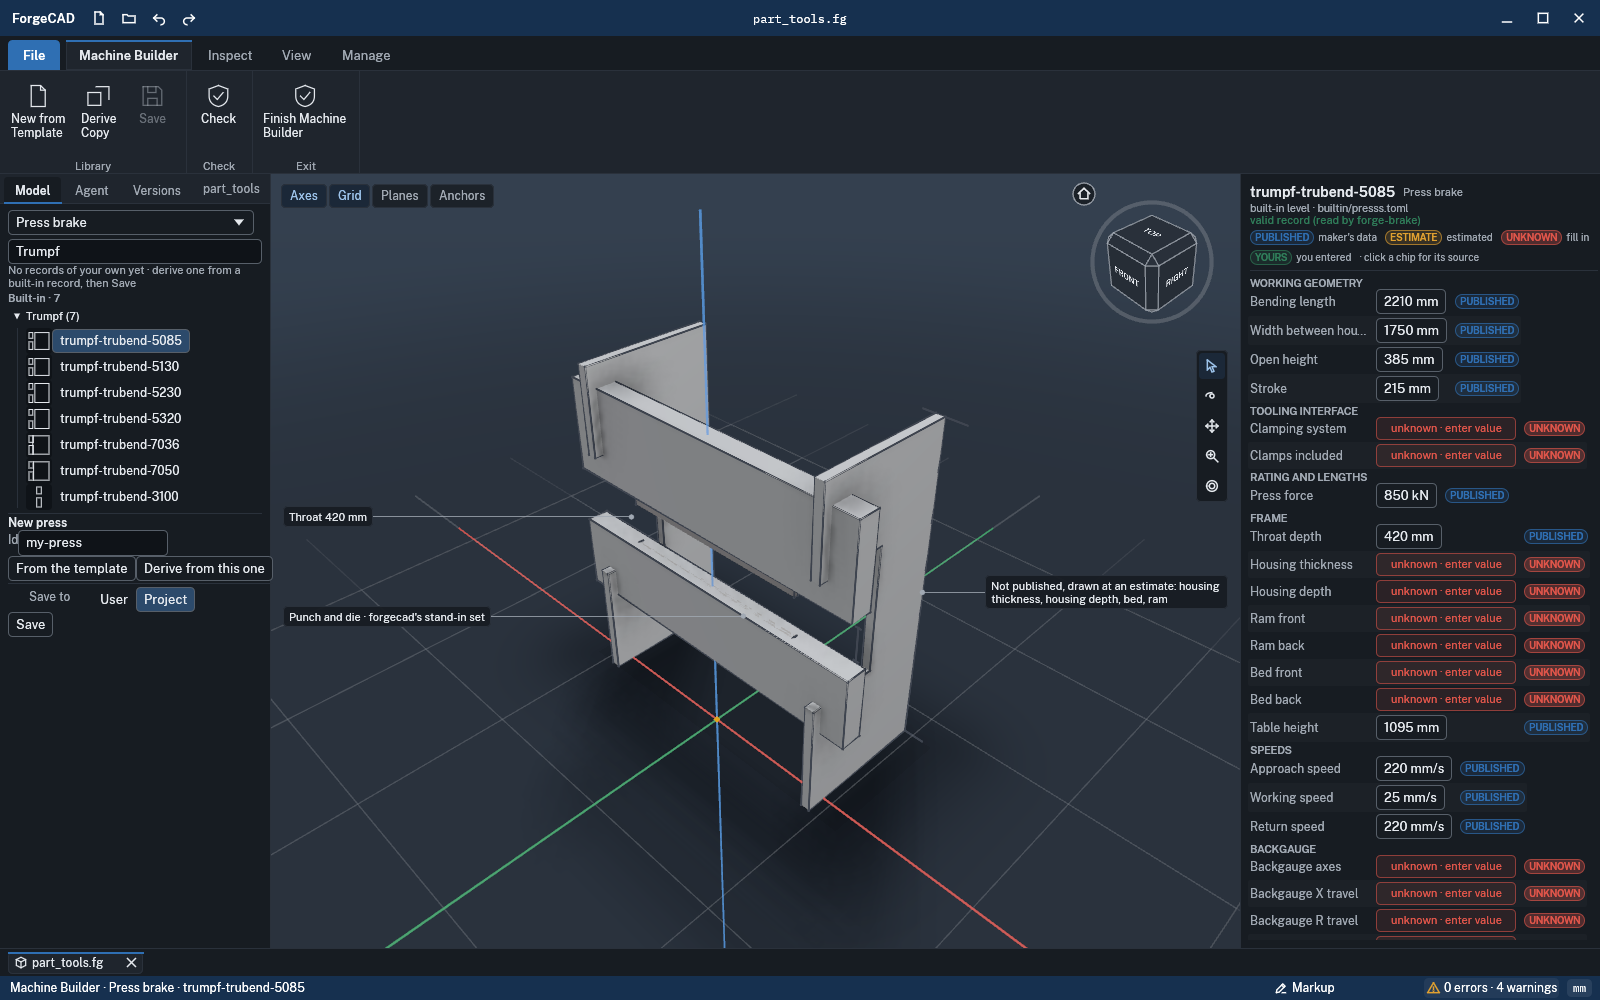
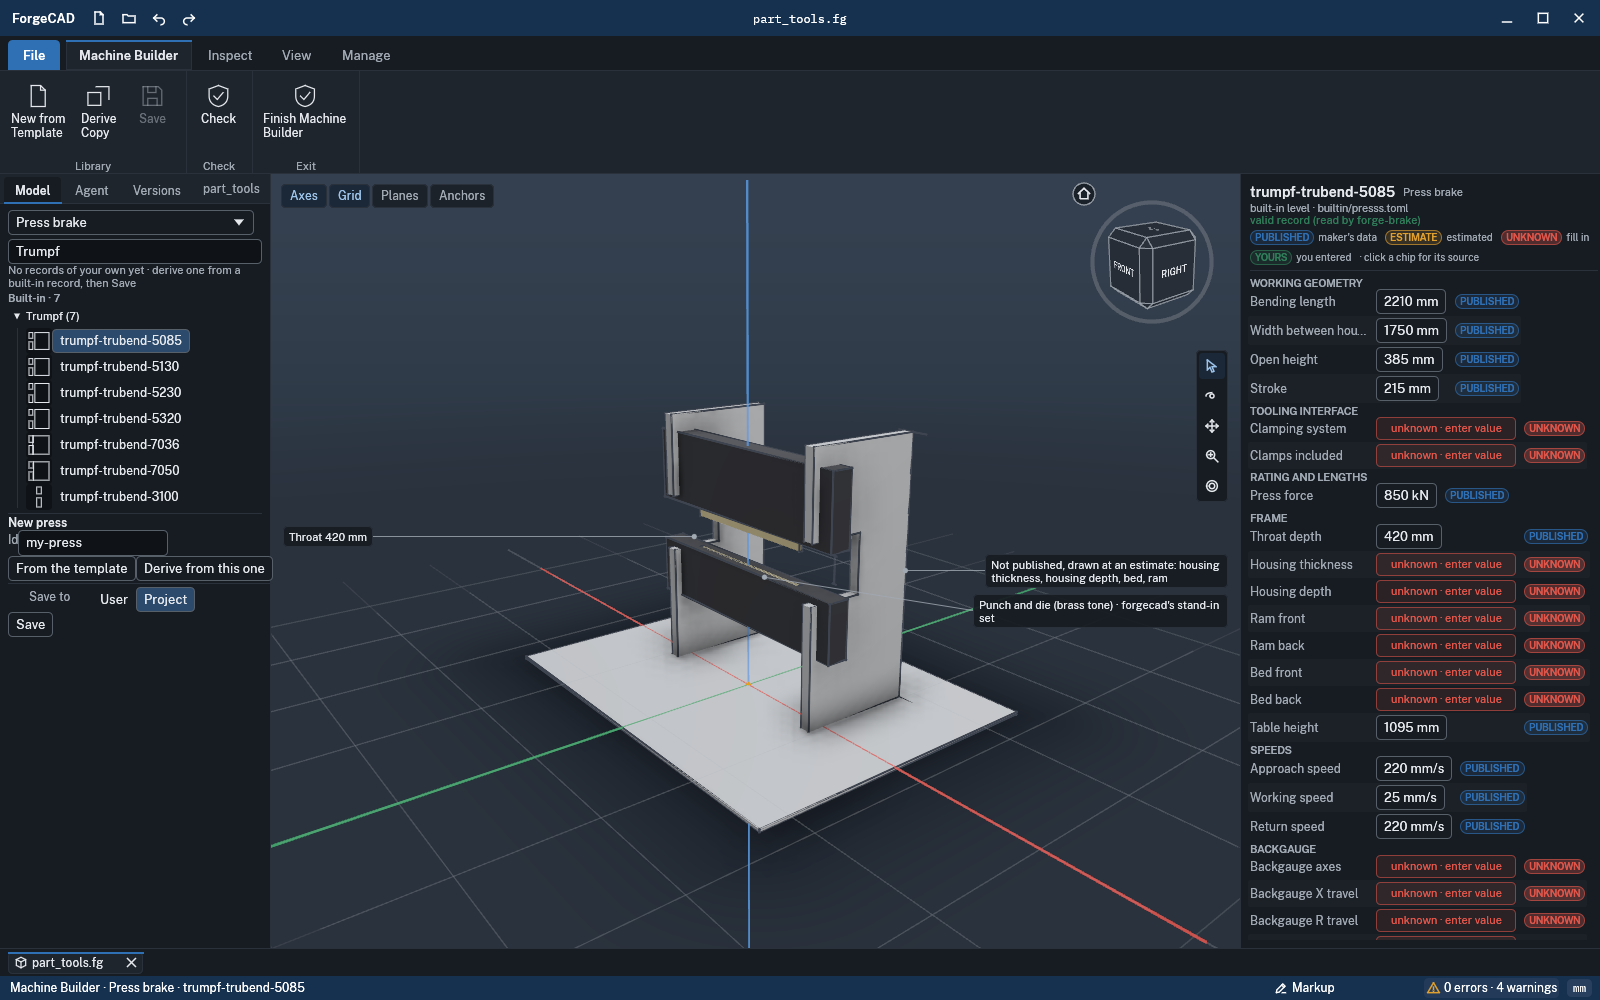
Library Builder press: C-frame throat at working height, dark beams, brass stand-in tools, floor, front-right 3/4
The housings' throat is cut at the working gap (table to ram, 15 % margin)
to the cited depth (a unit test checks the side face is the plate less the
notch); bed and ram in a dark steel tone at estimated depths; forgecad's
stand-in punch and die in a brass tone in the gap; a concrete floor slab;
framed front-right 3/4, lower than the iso, so the C shows.

Claude-Session: https://claude.ai/code/session_01WJtawxzwPxyVa8T89FuUER

diff --git a/interface/forge-render/src/library_mesh.rs b/interface/forge-render/src/library_mesh.rs
@@ -30,6 +30,13 @@ pub enum Look {
     Cutting,
     /// A cast, painted body: vise bases, press frames.
     MachinePaint,
+    /// A dark beam (a press's bed and ram), so the frame's parts separate.
+    DarkSteel,
+    /// What stands in for a part of the scene the record does not hold (a press's stand-in punch
+    /// and die): a contrasting warm tone, so it is never taken for the record's own.
+    StandIn,
+    /// The floor the machine stands on.
+    Floor,
 }
 
 impl Look {
@@ -40,6 +47,9 @@ impl Look {
             Look::Steel => "Steel, machined",
             Look::Cutting => "Steel, black oxide",
             Look::MachinePaint => "Paint, machine gloss",
+            Look::DarkSteel => "Steel, black oxide",
+            Look::StandIn => "Brass",
+            Look::Floor => "Concrete floor",
         }
     }
 
@@ -77,6 +87,8 @@ pub struct Preview {
     pub section: Option<Inset>,
     /// Look along the length (a die, a punch, a press): the axis the subject is long on.
     pub long_axis: Option<usize>,
+    /// Framed as its operator sees it (front, lower), not from the 3/4 iso.
+    pub operator: bool,
 }
 
 impl Preview {
@@ -580,10 +592,10 @@ pub fn press(t: &forge_vendor::toml::Table) -> Preview {
     let th = or(g("table_height"), 900.0, "table height");
     let throat = or(g("throat"), 400.0, "throat depth");
     let stroke = g("stroke");
-    let ft = or(g("frame.thickness"), 60.0, "housing thickness");
-    let fd = or(g("frame.depth"), throat * 2.2, "housing depth");
-    let (bf, bb) = (or(g("bed.front"), 70.0, "bed"), or(g("bed.back"), 70.0, "bed"));
-    let (rf, rb) = (or(g("ram.front"), 70.0, "ram"), or(g("ram.back"), 70.0, "ram"));
+    let ft = or(g("frame.thickness"), 90.0, "housing thickness");
+    let fd = or(g("frame.depth"), throat * 2.4, "housing depth");
+    let (bf, bb) = (or(g("bed.front"), 90.0, "bed"), or(g("bed.back"), 90.0, "bed"));
+    let (rf, rb) = (or(g("ram.front"), 90.0, "ram"), or(g("ram.back"), 90.0, "ram"));
     let est: Vec<&str> = {
         let mut e = est;
         e.dedup();
@@ -593,15 +605,11 @@ pub fn press(t: &forge_vendor::toml::Table) -> Preview {
     let bed_h = th * 0.45;
     let ram_h = oh * 1.6;
     let ram_z = th + oh;
-    p.solid_box(
-        [-bl / 2.0, -bf, th - bed_h],
-        [bl / 2.0, bb, th],
-        Look::MachinePaint,
-    );
+    p.solid_box([-bl / 2.0, -bf, th - bed_h], [bl / 2.0, bb, th], Look::DarkSteel);
     p.solid_box(
         [-bl / 2.0, -rf, ram_z],
         [bl / 2.0, rb, ram_z + ram_h],
-        Look::MachinePaint,
+        Look::DarkSteel,
     );
     // the housings: a C in (y, z), the throat cut in front between the table and the ram
     let top = ram_z + ram_h + oh * 0.4;
@@ -613,10 +621,12 @@ pub fn press(t: &forge_vendor::toml::Table) -> Preview {
         [y1, 0.0],
         [y1, top],
         [y0, top],
-        [y0, ram_z + ram_h * 0.3],
-        [yt, ram_z + ram_h * 0.3],
-        [yt, th - bed_h * 0.6],
-        [y0, th - bed_h * 0.6],
+        // the throat: the working gap's height (table to ram, plus a margin), cut back to the
+        // throat depth, so it shows as the C's mouth between the beams
+        [y0, ram_z + oh * 0.15],
+        [yt, ram_z + oh * 0.15],
+        [yt, th - oh * 0.15],
+        [y0, th - oh * 0.15],
     ];
     for s in [-1.0, 1.0] {
         let (a, b) = (s * gap / 2.0, s * (gap / 2.0 + ft));
@@ -650,7 +660,7 @@ pub fn press(t: &forge_vendor::toml::Table) -> Preview {
                 .map(|q| [q[0], if flip { dz - q[1].abs() } else { dz + q[1] }])
                 .collect();
             p.parts
-                .push((sweep_x(&yz, -tool_len / 2.0, tool_len / 2.0), Look::ToolSteel));
+                .push((sweep_x(&yz, -tool_len / 2.0, tool_len / 2.0), Look::StandIn));
         }
         tool_len *= 1.0;
     }
@@ -660,10 +670,10 @@ pub fn press(t: &forge_vendor::toml::Table) -> Preview {
         [-gap / 2.0 - ft, (-bf).min(-rf), th],
         format!("Throat {} mm", forge_units::trim(throat)),
     );
-    p.ghosts.last_mut().map(|g| {
-        // the throat is cited: no dashes, only its label
+    // the throat is cited: no dashes, only its label
+    if let Some(g) = p.ghosts.last_mut() {
         g.edges.clear();
-    });
+    }
     if !est.is_empty() {
         p.mark(
             [gap / 2.0 + ft, y1, 0.0],
@@ -674,9 +684,21 @@ pub fn press(t: &forge_vendor::toml::Table) -> Preview {
     p.mark(
         [0.0, -bf, th + 2.0],
         [tool_len / 2.0, -bf, th + 2.0],
-        "Punch and die · forgecad's stand-in set",
+        "Punch and die (brass tone) · forgecad's stand-in set",
     );
-    p.ghosts.last_mut().map(|g| g.edges.clear());
+    if let Some(g) = p.ghosts.last_mut() {
+        g.edges.clear();
+    }
+    // the floor it stands on: context, not the record
+    let m = bl.max(fd) * 0.25;
+    p.parts.push((
+        prims_tris(&[Prim::Box {
+            min: [-bl / 2.0 - ft - m, y0 - m * 2.0, -20.0],
+            max: [bl / 2.0 + ft + m, y1 + m, 0.0],
+        }]),
+        Look::Floor,
+    ));
+    p.operator = true;
     p
 }
 
@@ -737,5 +759,38 @@ mod tests {
         let e = dashed_box([0.0; 3], [10.0, 10.0, 10.0]);
         assert!(e.len() > 12);
         assert!(e.iter().all(|d| d.len() == 2));
+    }
+}
+
+#[cfg(test)]
+mod c_frame_tests {
+    /// A press housing's C (the throat cut in front): its side face covers the plate less the
+    /// notch, so the throat shows.
+    #[test]
+    fn a_housing_c_has_its_throat_cut() {
+        let c = [
+            [-150.0, 0.0],
+            [900.0, 0.0],
+            [900.0, 2600.0],
+            [-150.0, 2600.0],
+            [-150.0, 1600.0],
+            [330.0, 1600.0],
+            [330.0, 900.0],
+            [-150.0, 900.0],
+        ];
+        let t = super::sweep_x(&c, 875.0, 965.0);
+        // the +x side face's triangles, in (y, z)
+        let area: f64 = t
+            .tri
+            .iter()
+            .filter(|tr| tr.iter().all(|&i| (t.pos[i as usize][0] - 965.0).abs() < 1e-9))
+            .map(|tr| {
+                let [a, b, c] = tr.map(|i| t.pos[i as usize]);
+                0.5 * ((b[1] - a[1]) * (c[2] - a[2]) - (b[2] - a[2]) * (c[1] - a[1])).abs()
+            })
+            .sum();
+        let full = 1050.0 * 2600.0;
+        let notch = 480.0 * 700.0;
+        assert!((area - (full - notch)).abs() < 1e-6, "{area} vs {}", full - notch);
     }
 }

diff --git a/interface/forge-render/src/gui_machine.rs b/interface/forge-render/src/gui_machine.rs
@@ -150,7 +150,16 @@ fn frame_preview(p: &crate::library_mesh::Preview, size: (u32, u32)) -> crate::c
         let near = Bounds::new(f(lo), f([hi[0], lo[1] + 4.0 * sec, hi[2]]));
         return crate::frame::frame_from(near, view, 0.7, -62.0, 22.0);
     }
-    crate::frame::frame(Bounds::new(f(lo), f(hi)), view, Framing::default(), &[]).camera
+    let how = if p.operator {
+        Framing {
+            // front-right 3/4, lower than the iso: the housings' C (the throat) shows on their side
+            dir: crate::frame::Dir::Custom(-38.0, 18.0),
+            ..Framing::default()
+        }
+    } else {
+        Framing::default()
+    };
+    crate::frame::frame(Bounds::new(f(lo), f(hi)), view, how, &[]).camera
 }
 
 impl super::Gui {
